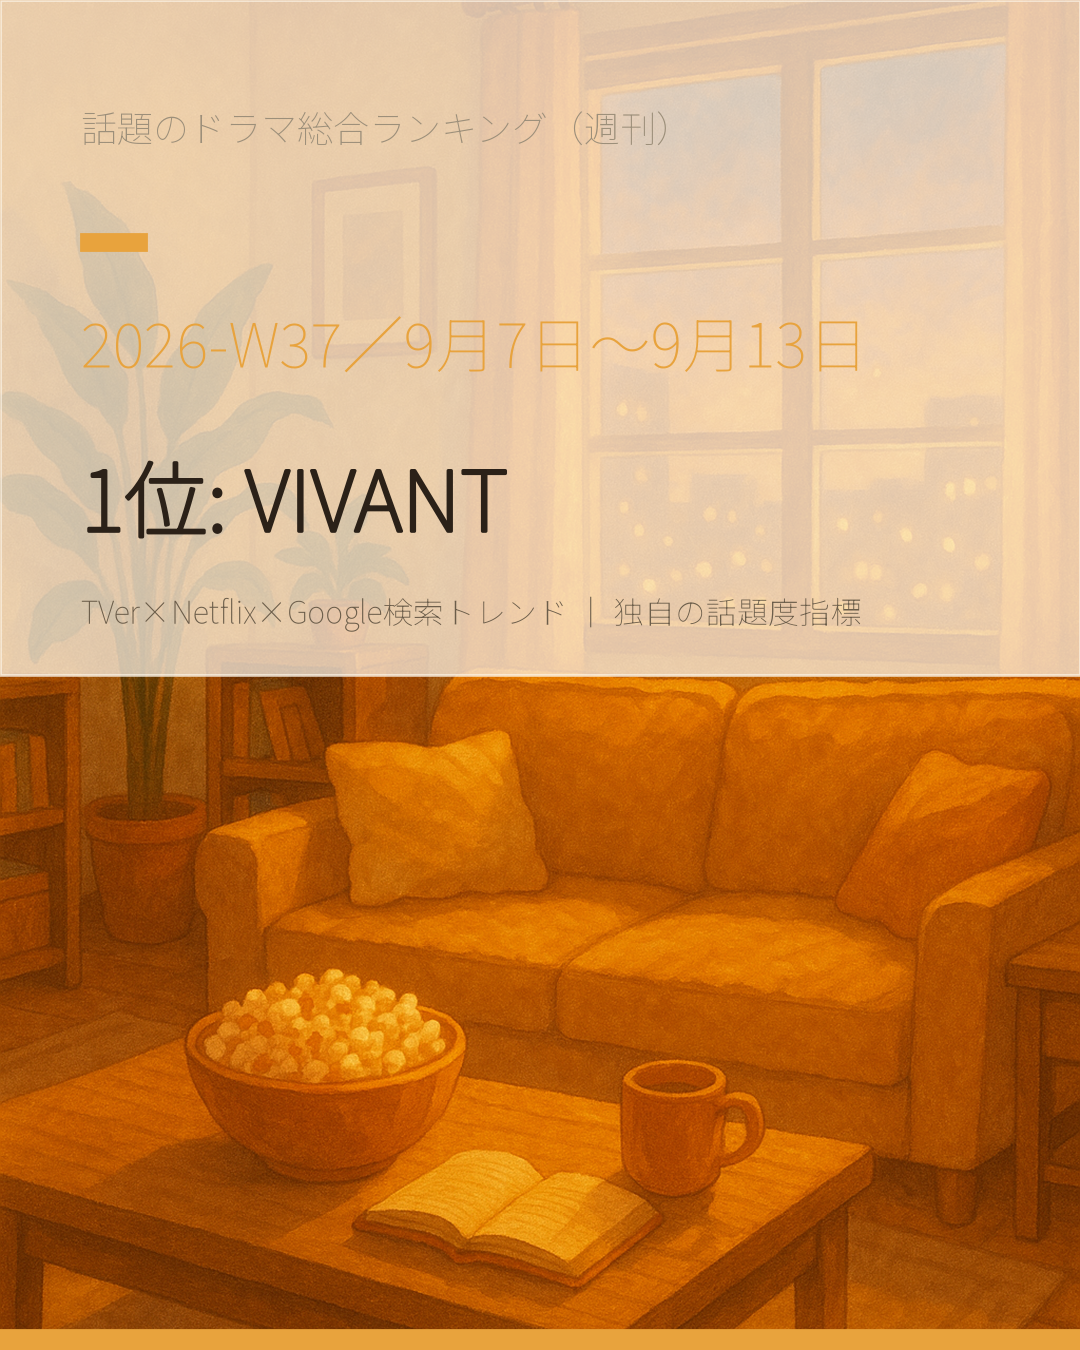
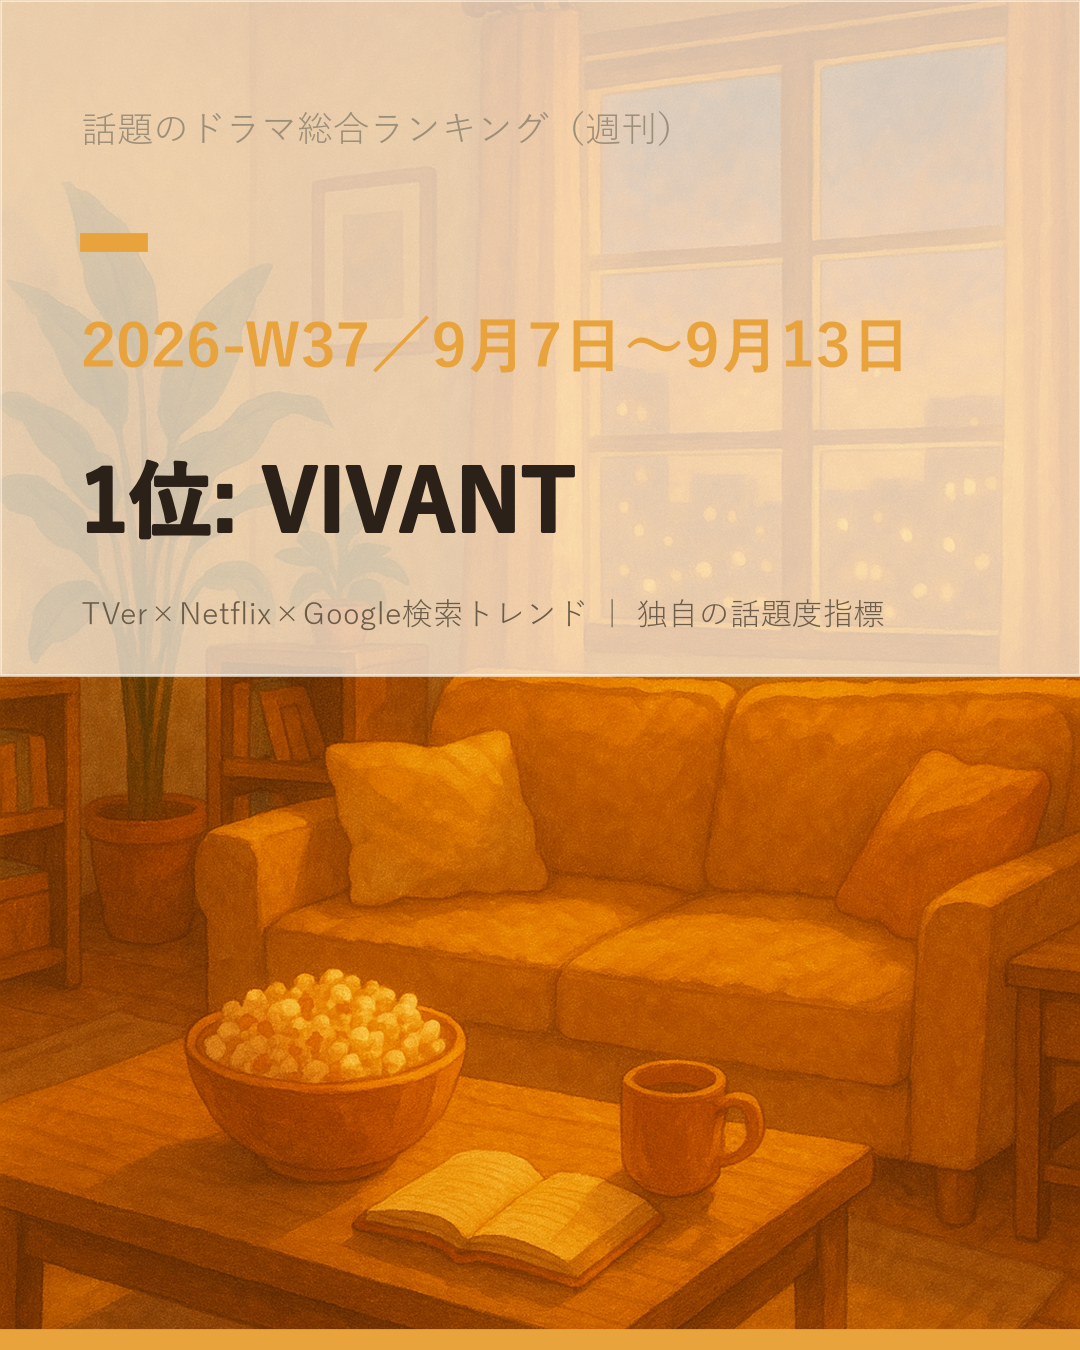
fix(全部門): matplotlib画像生成の文字が薄くなるフォントバグを一括修正
可変フォント「Noto Sans JP」をmatplotlibが優先して選んでしまい、ウェイト軸を
解決できず常にThin(100)にフォールバックしていた（開発3部の表画像で発覚）。
全部門(2/3/4/5/6部)のmake_cover.py・make_eyecatch.py・make_ranking_table.py・
make_ig_table.py・make_ig_cta.py・make_figures.pyで、静的ウェイトを持つ
フォント（Yu Gothic等）を優先するよう順序を修正。W37の表・サムネイル・
IG画像を再生成（他部の既公開済み画像は変更していない）。

diff --git a/dev/6-markets/assets/make_ranking_table.py b/dev/6-markets/assets/make_ranking_table.py
@@ -28,8 +28,8 @@ DOWN = "#b23b3b"         # 下落（赤）
 def _jp_font() -> str | None:
     from matplotlib import font_manager
 
-    for name in ("Noto Sans CJK JP", "Noto Sans JP", "IPAexGothic", "IPAGothic",
-                 "TakaoPGothic", "Yu Gothic", "Meiryo", "MS Gothic", "Hiragino Sans"):
+    for name in ("Yu Gothic", "Meiryo", "MS Gothic", "IPAexGothic", "IPAGothic",
+                 "TakaoPGothic", "Hiragino Sans", "Noto Sans CJK JP", "Noto Sans JP"):
         try:
             if font_manager.findfont(name, fallback_to_default=False):
                 return name

diff --git a/dev/4-onsen/assets/make_ranking_table.py b/dev/4-onsen/assets/make_ranking_table.py
@@ -22,8 +22,8 @@ DRAFT_DIR = ONSEN_DIR / "drafts"
 def _jp_font() -> str | None:
     from matplotlib import font_manager
 
-    for name in ("Noto Sans CJK JP", "Noto Sans JP", "IPAexGothic", "IPAGothic",
-                 "TakaoPGothic", "Yu Gothic", "Meiryo", "MS Gothic", "Hiragino Sans"):
+    for name in ("Yu Gothic", "Meiryo", "MS Gothic", "IPAexGothic", "IPAGothic",
+                 "TakaoPGothic", "Hiragino Sans", "Noto Sans CJK JP", "Noto Sans JP"):
         try:
             if font_manager.findfont(name, fallback_to_default=False):
                 return name

diff --git a/dev/4-onsen/omiyage/make_ranking_table.py b/dev/4-onsen/omiyage/make_ranking_table.py
@@ -21,8 +21,8 @@ DRAFT_DIR = BASE / "drafts"
 def _jp_font() -> str | None:
     from matplotlib import font_manager
 
-    for name in ("Noto Sans CJK JP", "Noto Sans JP", "IPAexGothic", "IPAGothic",
-                 "TakaoPGothic", "Yu Gothic", "Meiryo", "MS Gothic", "Hiragino Sans"):
+    for name in ("Yu Gothic", "Meiryo", "MS Gothic", "IPAexGothic", "IPAGothic",
+                 "TakaoPGothic", "Hiragino Sans", "Noto Sans CJK JP", "Noto Sans JP"):
         try:
             if font_manager.findfont(name, fallback_to_default=False):
                 return name

diff --git a/dev/2-cars/assets/make_eyecatch.py b/dev/2-cars/assets/make_eyecatch.py
@@ -18,8 +18,8 @@ import matplotlib.pyplot as plt  # noqa: E402
 import matplotlib.patheffects as pe  # noqa: E402
 from matplotlib import font_manager  # noqa: E402
 
-for _name in ("Noto Sans CJK JP", "Noto Sans JP", "IPAexGothic",
-              "Meiryo", "Yu Gothic", "MS Gothic", "Hiragino Sans"):
+for _name in ("Yu Gothic", "Meiryo", "MS Gothic", "IPAexGothic",
+              "Hiragino Sans", "Noto Sans CJK JP", "Noto Sans JP"):
     try:
         if font_manager.findfont(_name, fallback_to_default=False):
             matplotlib.rcParams["font.family"] = _name

diff --git a/dev/5-finance-manga/assets/make_eyecatch.py b/dev/5-finance-manga/assets/make_eyecatch.py
@@ -18,8 +18,8 @@ import matplotlib.pyplot as plt  # noqa: E402
 import matplotlib.patheffects as pe  # noqa: E402
 from matplotlib import font_manager  # noqa: E402
 
-for _name in ("Noto Sans CJK JP", "Noto Sans JP", "IPAexGothic",
-              "Meiryo", "Yu Gothic", "MS Gothic", "Hiragino Sans"):
+for _name in ("Yu Gothic", "Meiryo", "MS Gothic", "IPAexGothic",
+              "Hiragino Sans", "Noto Sans CJK JP", "Noto Sans JP"):
     try:
         if font_manager.findfont(_name, fallback_to_default=False):
             matplotlib.rcParams["font.family"] = _name

diff --git a/dev/6-markets/assets/make_cover.py b/dev/6-markets/assets/make_cover.py
@@ -18,8 +18,8 @@ import matplotlib.pyplot as plt  # noqa: E402
 import matplotlib.patheffects as pe  # noqa: E402
 from matplotlib import font_manager  # noqa: E402
 
-for _name in ("Noto Sans CJK JP", "Noto Sans JP", "IPAexGothic",
-              "Meiryo", "Yu Gothic", "MS Gothic", "Hiragino Sans"):
+for _name in ("Yu Gothic", "Meiryo", "MS Gothic", "IPAexGothic",
+              "Hiragino Sans", "Noto Sans CJK JP", "Noto Sans JP"):
     try:
         if font_manager.findfont(_name, fallback_to_default=False):
             matplotlib.rcParams["font.family"] = _name

diff --git a/dev/6-markets/assets/make_eyecatch.py b/dev/6-markets/assets/make_eyecatch.py
@@ -18,8 +18,8 @@ import matplotlib.pyplot as plt  # noqa: E402
 import matplotlib.patheffects as pe  # noqa: E402
 from matplotlib import font_manager  # noqa: E402
 
-for _name in ("Noto Sans CJK JP", "Noto Sans JP", "IPAexGothic",
-              "Meiryo", "Yu Gothic", "MS Gothic", "Hiragino Sans"):
+for _name in ("Yu Gothic", "Meiryo", "MS Gothic", "IPAexGothic",
+              "Hiragino Sans", "Noto Sans CJK JP", "Noto Sans JP"):
     try:
         if font_manager.findfont(_name, fallback_to_default=False):
             matplotlib.rcParams["font.family"] = _name

diff --git a/dev/2-cars/assets/make_ranking_table.py b/dev/2-cars/assets/make_ranking_table.py
@@ -28,8 +28,8 @@ ROW_ALT = "#eae7de"
 def _jp_font() -> str | None:
     from matplotlib import font_manager
 
-    for name in ("Noto Sans CJK JP", "Noto Sans JP", "IPAexGothic", "IPAGothic",
-                 "TakaoPGothic", "Yu Gothic", "Meiryo", "MS Gothic", "Hiragino Sans"):
+    for name in ("Yu Gothic", "Meiryo", "MS Gothic", "IPAexGothic", "IPAGothic",
+                 "TakaoPGothic", "Hiragino Sans", "Noto Sans CJK JP", "Noto Sans JP"):
         try:
             if font_manager.findfont(name, fallback_to_default=False):
                 return name

diff --git a/dev/3-drama/assets/make_ig_table.py b/dev/3-drama/assets/make_ig_table.py
@@ -29,8 +29,8 @@ MUTE = "#79828f"
 def _jp_font() -> str | None:
     from matplotlib import font_manager
 
-    for name in ("Noto Sans CJK JP", "Noto Sans JP", "IPAexGothic", "IPAGothic",
-                 "TakaoPGothic", "Yu Gothic", "Meiryo", "MS Gothic", "Hiragino Sans"):
+    for name in ("Yu Gothic", "Meiryo", "MS Gothic", "IPAexGothic", "IPAGothic",
+                 "TakaoPGothic", "Hiragino Sans", "Noto Sans CJK JP", "Noto Sans JP"):
         try:
             if font_manager.findfont(name, fallback_to_default=False):
                 return name

diff --git a/dev/5-finance-manga/assets/make_figures.py b/dev/5-finance-manga/assets/make_figures.py
@@ -20,8 +20,8 @@ from matplotlib import font_manager  # noqa: E402
 OUT = Path(__file__).with_name("00")
 OUT.mkdir(parents=True, exist_ok=True)
 
-for _name in ("Noto Sans CJK JP", "Noto Sans JP", "IPAexGothic",
-              "Meiryo", "Yu Gothic", "MS Gothic", "Hiragino Sans"):
+for _name in ("Yu Gothic", "Meiryo", "MS Gothic", "IPAexGothic",
+              "Hiragino Sans", "Noto Sans CJK JP", "Noto Sans JP"):
     try:
         if font_manager.findfont(_name, fallback_to_default=False):
             matplotlib.rcParams["font.family"] = _name

diff --git a/dev/3-drama/assets/make_eyecatch.py b/dev/3-drama/assets/make_eyecatch.py
@@ -24,8 +24,8 @@ import numpy as np  # noqa: E402
 from matplotlib import font_manager  # noqa: E402
 from PIL import Image  # noqa: E402
 
-for _name in ("Noto Sans CJK JP", "Noto Sans JP", "IPAexGothic",
-              "Meiryo", "Yu Gothic", "MS Gothic", "Hiragino Sans"):
+for _name in ("Yu Gothic", "Meiryo", "MS Gothic", "IPAexGothic",
+              "Hiragino Sans", "Noto Sans CJK JP", "Noto Sans JP"):
     try:
         if font_manager.findfont(_name, fallback_to_default=False):
             matplotlib.rcParams["font.family"] = _name

diff --git a/dev/4-onsen/assets/make_eyecatch.py b/dev/4-onsen/assets/make_eyecatch.py
@@ -26,8 +26,8 @@ import numpy as np  # noqa: E402
 from matplotlib import font_manager  # noqa: E402
 from PIL import Image  # noqa: E402
 
-for _name in ("Noto Sans CJK JP", "Noto Sans JP", "IPAexGothic",
-              "Meiryo", "Yu Gothic", "MS Gothic", "Hiragino Sans"):
+for _name in ("Yu Gothic", "Meiryo", "MS Gothic", "IPAexGothic",
+              "Hiragino Sans", "Noto Sans CJK JP", "Noto Sans JP"):
     try:
         if font_manager.findfont(_name, fallback_to_default=False):
             matplotlib.rcParams["font.family"] = _name
